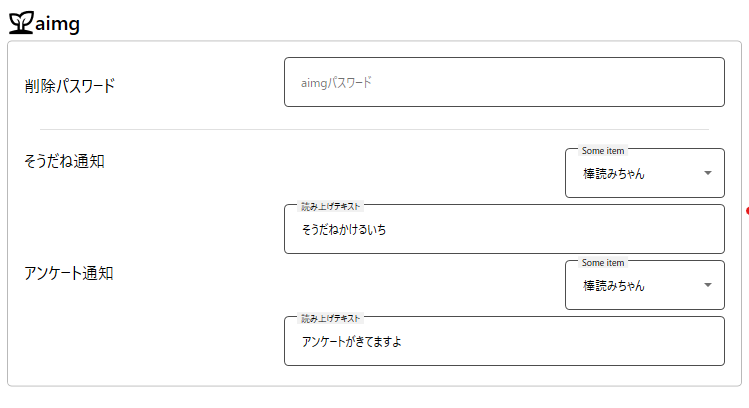
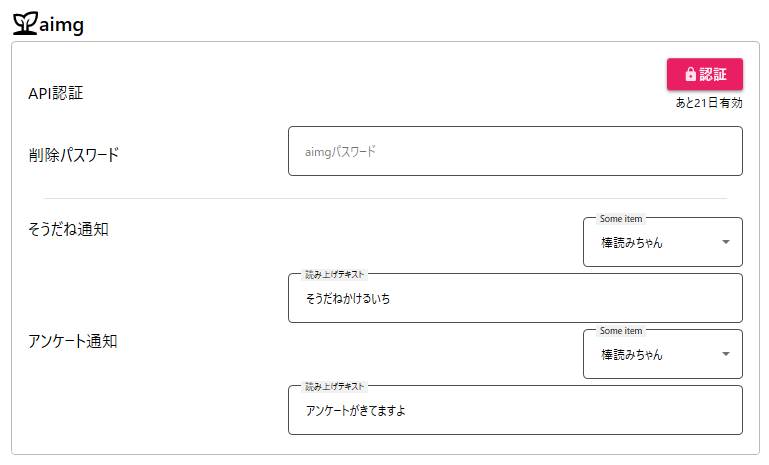
あいもげAPI認証の説明追加

diff --git a/src/pages/src/usage/aimg-auth.md b/src/pages/src/usage/aimg-auth.md
@@ -1,0 +1,34 @@
+---
+layout: doc
+prev: false
+next: false
+---
+# aimg API認証について
+
+## API認証とは
+
+aimgで認証が必要な操作をする場合aimgのAPIの認証が必要です。
+
+
+### 有効期限
+
+21日間です。再度認証することで有効期限の延長が可能です。
+
+
+## 認証手順
+
+1. アプリを起動し設定を開きます
+
+2. aimgの項に移動し認証ボタンを押します
+![-](/images/usage/aimg-auth_010_setting.png)
+
+3. ブラウザが開くので内容を確認し、許可してください
+![-](/images/usage/aimg-auth_020_aimg.png)
+
+4. タブはもう使用しないので閉じます
+![-](/images/usage/aimg-auth_030_local.png)
+
+5. 認証が成功すると有効期限が表示されます。その後aimgのパスワードを入力して下さい
+
+6. 認証と削除キーが有効化されていると読み上げ画面のdel, 削除ボタンが有効になります。
+![-](/images/usage/aimg-auth_040_auth.png)

diff --git a/src/pages/src/usage/index.md b/src/pages/src/usage/index.md
@@ -41,19 +41,5 @@ ARM64アーキテクチャは環境がないので確認していません。
 :::
 
 
-## aimg対応状況
-
-|機能名|対応状況|
-|----|----|
-|tegaki.png更新条件|aimgがお絵描きと認識している画像をPNG画像に変換してtegaki.pngに書き込みます(レス番号が緑色のレスが対象です)|
-|添付ファイルのダウンロード|実装していますが、aimgにブロックされることがあります|
-|del|未実装|
-|削除|未実装|
-
-::: info
-aimgはC#から手軽にAPIを呼び出せないため最低限の実装を行っています
-:::
-
-
 ## 免責事項
 スレ詠みちゃんは有志が個人的に開発しています。直接または間接的に発生したいかなる損失や損害についても責任を負いません。

diff --git a/src/pages/src/usage/settings.md b/src/pages/src/usage/settings.md
@@ -99,10 +99,13 @@ awebp → gif
 
 ![-](/images/usage/setting_040_aimgSet.png)
 
-### 削除パスワード
-読み上げたあとに対象のレスを削除する時に使います。   
+### API認証
+あいもげAPIに認証を行います。認証には有効期限があります。
 
-あいもげのレス削除機能自体は後日実装予定です。
+### パスワード
+あいもげAPIで認証処理が必要な場合に使います。   
+認証が必要ない場合入力する必要はありません。
+
 
 ### そうだね通知
 スレ文(0レス目)にそうだねが入ると通知します。  
